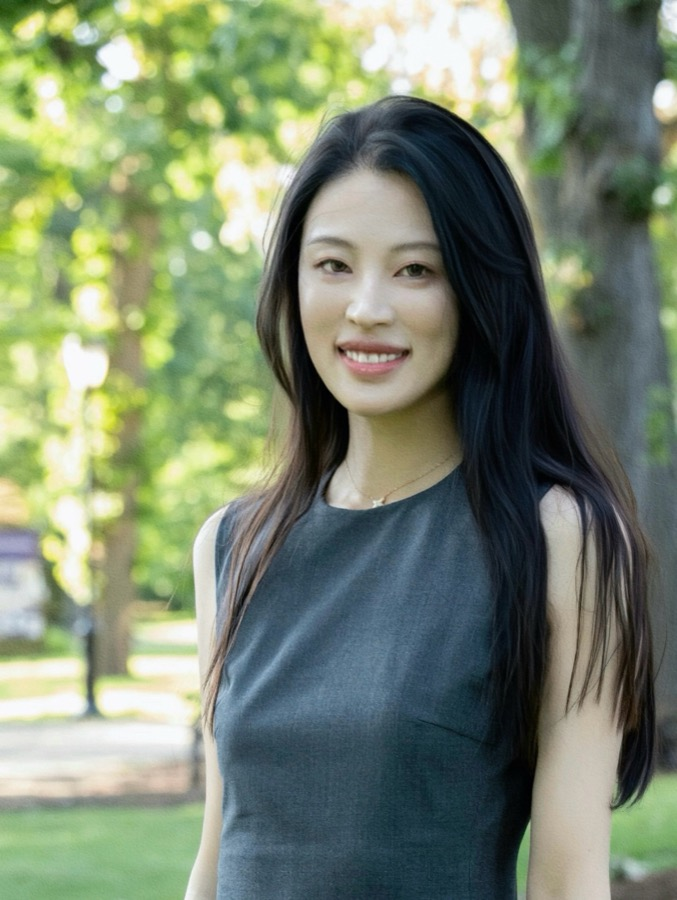
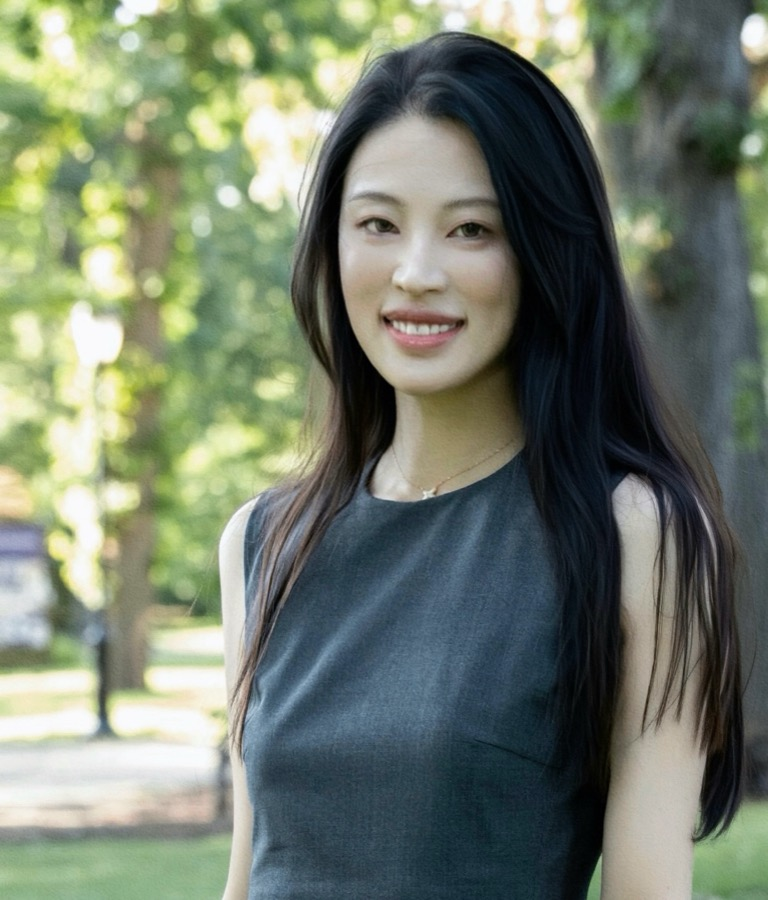
Home: use new portrait photo (Shinan_profile2)

diff --git a/index.html b/index.html
@@ -93,7 +93,7 @@
 
       <div class="hero-portrait">
         <div class="frame" aria-label="Shinan Wang">
-          <img src="assets/portrait.jpg?v=3" alt="Shinan Wang">
+          <img src="assets/portrait.jpg?v=4" alt="Shinan Wang">
         </div>
       </div>
     </section>
